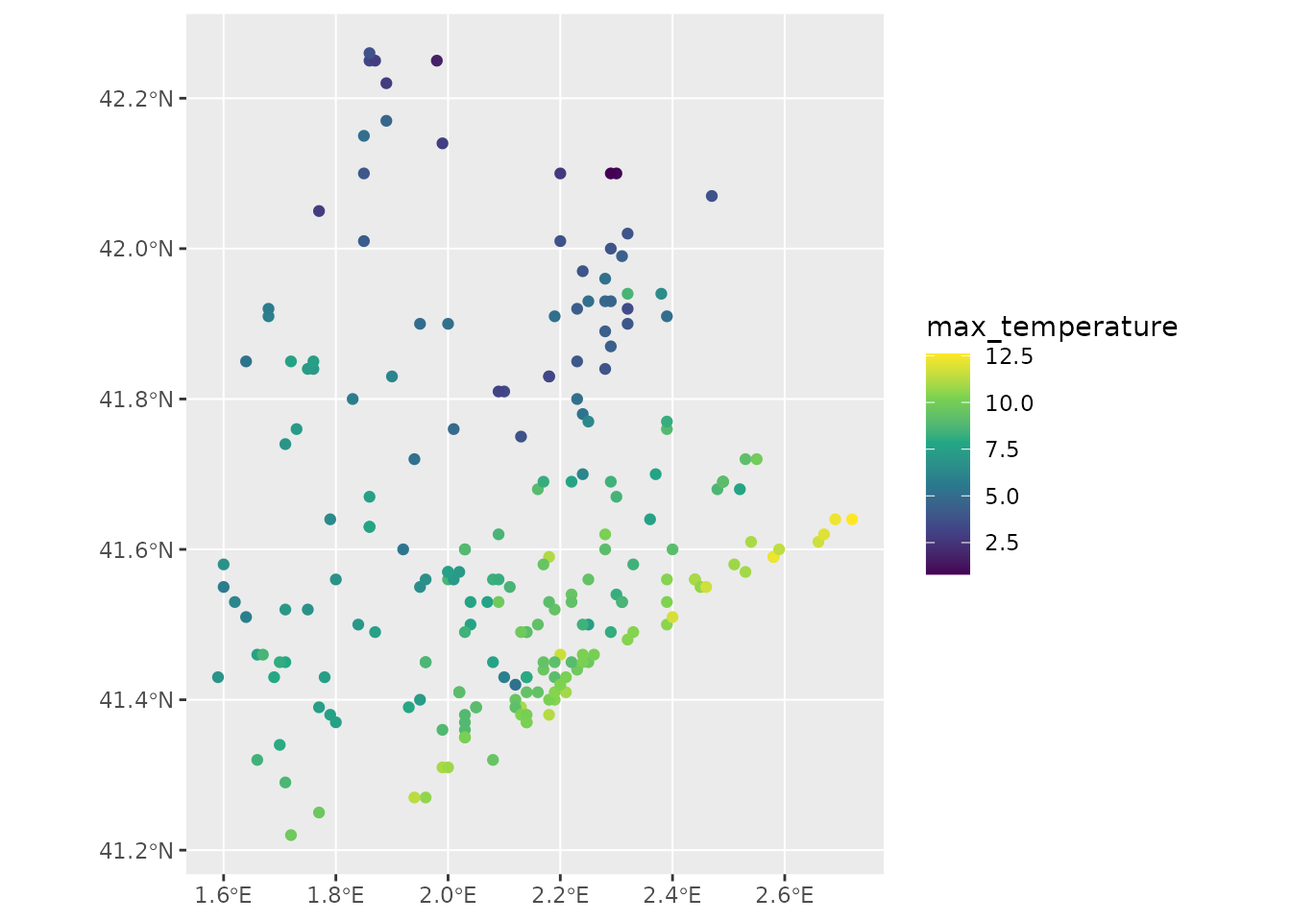
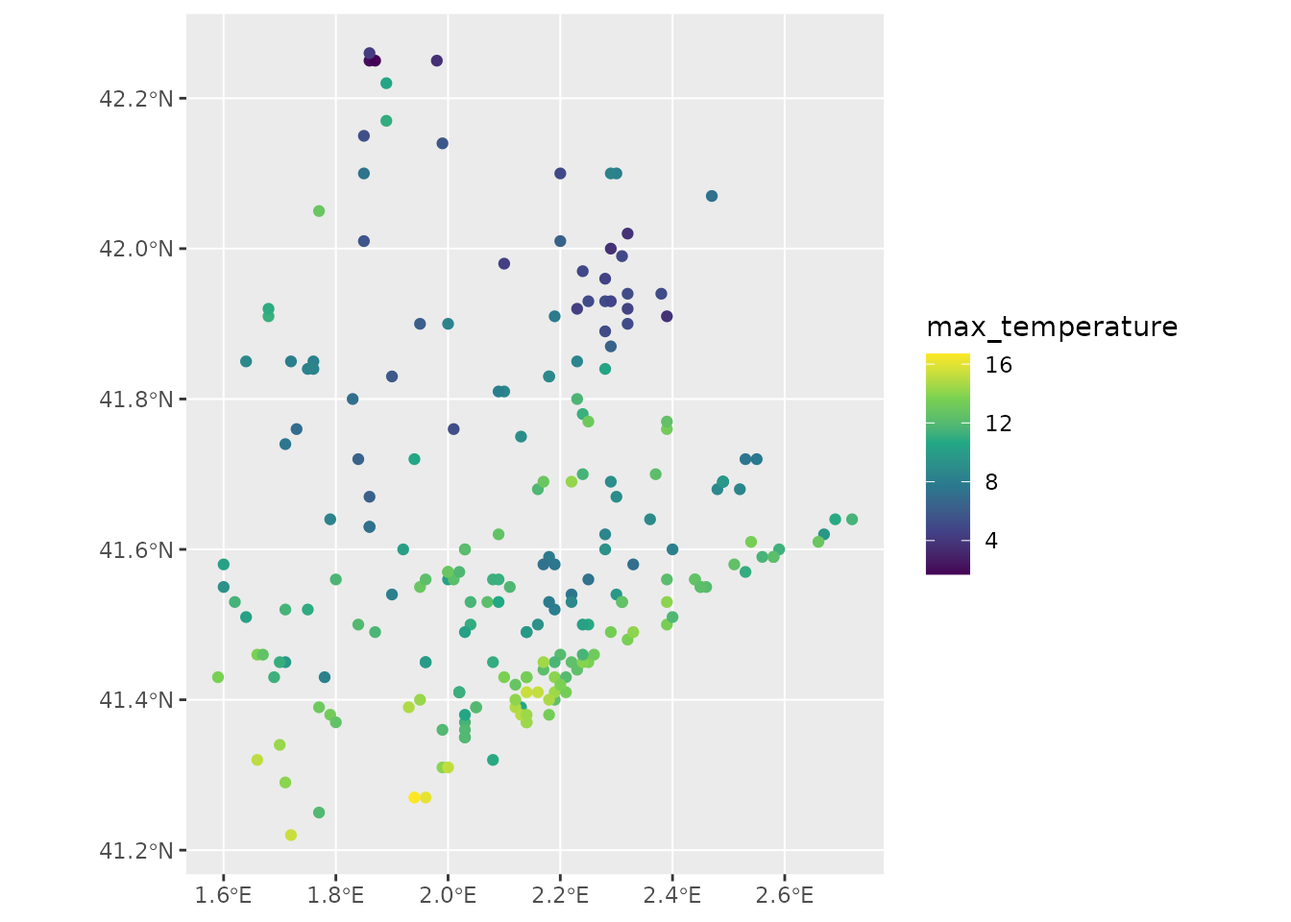
Deploying to gh-pages from @ emf-creaf/meteospain@8abbf595e693a4aecd256f32f1091f75494f7d1e 🚀

diff --git a/articles/meteoclimatic.html b/articles/meteoclimatic.html
@@ -33,7 +33,7 @@
       </button>
       <span class="navbar-brand">
         <a class="navbar-link" href="../index.html">meteospain</a>
-        <span class="version label label-default" data-toggle="tooltip" data-placement="bottom" title="">0.0.4.9000</span>
+        <span class="version label label-default" data-toggle="tooltip" data-placement="bottom" title="">0.1.0</span>
       </span>
     </div>
 
@@ -116,7 +116,7 @@
 <code class="sourceCode R"><span><span class="kw"><a href="https://rdrr.io/r/base/library.html" class="external-link">library</a></span><span class="op">(</span><span class="va"><a href="https://emf-creaf.github.io/meteospain/">meteospain</a></span><span class="op">)</span></span>
 <span><span class="kw"><a href="https://rdrr.io/r/base/library.html" class="external-link">library</a></span><span class="op">(</span><span class="va"><a href="https://ggplot2.tidyverse.org" class="external-link">ggplot2</a></span><span class="op">)</span></span>
 <span><span class="kw"><a href="https://rdrr.io/r/base/library.html" class="external-link">library</a></span><span class="op">(</span><span class="va"><a href="https://ggforce.data-imaginist.com" class="external-link">ggforce</a></span><span class="op">)</span></span>
-<span><span class="kw"><a href="https://rdrr.io/r/base/library.html" class="external-link">library</a></span><span class="op">(</span><span class="va"><a href="https://github.com/r-quantities/units/" class="external-link">units</a></span><span class="op">)</span></span>
+<span><span class="kw"><a href="https://rdrr.io/r/base/library.html" class="external-link">library</a></span><span class="op">(</span><span class="va"><a href="https://github.com/r-quantities/units" class="external-link">units</a></span><span class="op">)</span></span>
 <span><span class="co">#&gt; udunits database from /usr/share/xml/udunits/udunits2.xml</span></span>
 <span><span class="kw"><a href="https://rdrr.io/r/base/library.html" class="external-link">library</a></span><span class="op">(</span><span class="va"><a href="https://r-spatial.github.io/sf/" class="external-link">sf</a></span><span class="op">)</span></span>
 <span><span class="co">#&gt; Linking to GEOS 3.10.2, GDAL 3.4.1, PROJ 8.2.1; sf_use_s2() is TRUE</span></span></code></pre></div>
@@ -166,25 +166,25 @@ one.</p>
 <p>Accessing station metadata for Meteoclimatic is simple:</p>
 <div class="sourceCode" id="cb3"><pre class="downlit sourceCode r">
 <code class="sourceCode R"><span><span class="fu"><a href="../reference/get_stations_info_from.html">get_stations_info_from</a></span><span class="op">(</span><span class="st">'meteoclimatic'</span>, options <span class="op">=</span> <span class="va">api_options</span><span class="op">)</span></span>
-<span><span class="co">#&gt; Simple feature collection with 216 features and 3 fields</span></span>
+<span><span class="co">#&gt; Simple feature collection with 220 features and 3 fields</span></span>
 <span><span class="co">#&gt; Geometry type: POINT</span></span>
 <span><span class="co">#&gt; Dimension:     XY</span></span>
 <span><span class="co">#&gt; Bounding box:  xmin: 1.59 ymin: 41.22 xmax: 2.72 ymax: 42.26</span></span>
 <span><span class="co">#&gt; Geodetic CRS:  WGS 84</span></span>
-<span><span class="co">#&gt; <span style="color: #949494;"># A tibble: 216 × 4</span></span></span>
+<span><span class="co">#&gt; <span style="color: #949494;"># A tibble: 220 × 4</span></span></span>
 <span><span class="co">#&gt;    service       station_id          station_name          geometry</span></span>
 <span><span class="co">#&gt;  <span style="color: #BCBCBC;">*</span> <span style="color: #949494; font-style: italic;">&lt;chr&gt;</span>         <span style="color: #949494; font-style: italic;">&lt;chr&gt;</span>               <span style="color: #949494; font-style: italic;">&lt;chr&gt;</span>              <span style="color: #949494; font-style: italic;">&lt;POINT [°]&gt;</span></span></span>
 <span><span class="co">#&gt; <span style="color: #BCBCBC;"> 1</span> meteoclimatic ESCAT0800000008591A Aiguafreda (Barc… (2.25 41.77)</span></span>
 <span><span class="co">#&gt; <span style="color: #BCBCBC;"> 2</span> meteoclimatic ESCAT0800000008328F Alella-Mirador (… (2.29 41.49)</span></span>
-<span><span class="co">#&gt; <span style="color: #BCBCBC;"> 3</span> meteoclimatic ESCAT0800000008358A Arenys de Munt (… (2.54 41.61)</span></span>
-<span><span class="co">#&gt; <span style="color: #BCBCBC;"> 4</span> meteoclimatic ESCAT0800000008310B Argentona (Barce… (2.39 41.56)</span></span>
-<span><span class="co">#&gt; <span style="color: #BCBCBC;"> 5</span> meteoclimatic ESCAT0800000008915A Badalona - Bufal… (2.24 41.46)</span></span>
-<span><span class="co">#&gt; <span style="color: #BCBCBC;"> 6</span> meteoclimatic ESCAT0800000008912A Badalona - Centr… (2.25 41.45)</span></span>
-<span><span class="co">#&gt; <span style="color: #BCBCBC;"> 7</span> meteoclimatic ESCAT0800000008911C Badalona - Dalt … (2.26 41.46)</span></span>
-<span><span class="co">#&gt; <span style="color: #BCBCBC;"> 8</span> meteoclimatic ESCAT0800000008917B Badalona - La Pa… (2.22 41.45)</span></span>
-<span><span class="co">#&gt; <span style="color: #BCBCBC;"> 9</span> meteoclimatic ESCAT0800000008080A Badalona - Llefi… (2.23 41.44)</span></span>
-<span><span class="co">#&gt; <span style="color: #BCBCBC;">10</span> meteoclimatic ESCAT0800000008912B Badalona - Progr… (2.24 41.45)</span></span>
-<span><span class="co">#&gt; <span style="color: #949494;"># … with 206 more rows</span></span></span></code></pre></div>
+<span><span class="co">#&gt; <span style="color: #BCBCBC;"> 3</span> meteoclimatic ESCAT0800000008350A Arenys de Mar (B… (2.56 41.59)</span></span>
+<span><span class="co">#&gt; <span style="color: #BCBCBC;"> 4</span> meteoclimatic ESCAT0800000008358A Arenys de Munt (… (2.54 41.61)</span></span>
+<span><span class="co">#&gt; <span style="color: #BCBCBC;"> 5</span> meteoclimatic ESCAT0800000008310B Argentona (Barce… (2.39 41.56)</span></span>
+<span><span class="co">#&gt; <span style="color: #BCBCBC;"> 6</span> meteoclimatic ESCAT0800000008915A Badalona - Bufal… (2.24 41.46)</span></span>
+<span><span class="co">#&gt; <span style="color: #BCBCBC;"> 7</span> meteoclimatic ESCAT0800000008912A Badalona - Centr… (2.25 41.45)</span></span>
+<span><span class="co">#&gt; <span style="color: #BCBCBC;"> 8</span> meteoclimatic ESCAT0800000008911C Badalona - Dalt … (2.26 41.46)</span></span>
+<span><span class="co">#&gt; <span style="color: #BCBCBC;"> 9</span> meteoclimatic ESCAT0800000008917B Badalona - La Pa… (2.22 41.45)</span></span>
+<span><span class="co">#&gt; <span style="color: #BCBCBC;">10</span> meteoclimatic ESCAT0800000008080A Badalona - Llefi… (2.23 41.44)</span></span>
+<span><span class="co">#&gt; <span style="color: #949494;"># … with 210 more rows</span></span></span></code></pre></div>
 </div>
 <div class="section level3">
 <h3 id="meteoclimatic-data">Meteoclimatic data<a class="anchor" aria-label="anchor" href="#meteoclimatic-data"></a>
@@ -195,25 +195,25 @@ one.</p>
 <span><span class="co"><span style="color: #BBBB00; font-weight: bold;">#&gt; No quality check is performed in this data, and errors in measures or coordinates of stations can be present.</span></span></span>
 <span><span class="co"><span style="color: #BBBB00; font-weight: bold;">#&gt; </span><span style="color: #0000BB; font-weight: bold; text-decoration: underline;">https://www.meteoclimatic.net/index</span></span></span>
 <span><span class="va">current_day_barcelona</span></span>
-<span><span class="co">#&gt; Simple feature collection with 216 features and 9 fields</span></span>
+<span><span class="co">#&gt; Simple feature collection with 220 features and 9 fields</span></span>
 <span><span class="co">#&gt; Geometry type: POINT</span></span>
 <span><span class="co">#&gt; Dimension:     XY</span></span>
 <span><span class="co">#&gt; Bounding box:  xmin: 1.59 ymin: 41.22 xmax: 2.72 ymax: 42.26</span></span>
 <span><span class="co">#&gt; Geodetic CRS:  WGS 84</span></span>
-<span><span class="co">#&gt; <span style="color: #949494;"># A tibble: 216 × 10</span></span></span>
+<span><span class="co">#&gt; <span style="color: #949494;"># A tibble: 220 × 10</span></span></span>
 <span><span class="co">#&gt;    timestamp           service   stati…¹ stati…² min_t…³ max_t…⁴ min_r…⁵ max_r…⁶</span></span>
 <span><span class="co">#&gt;  <span style="color: #BCBCBC;">*</span> <span style="color: #949494; font-style: italic;">&lt;dttm&gt;</span>              <span style="color: #949494; font-style: italic;">&lt;chr&gt;</span>     <span style="color: #949494; font-style: italic;">&lt;chr&gt;</span>   <span style="color: #949494; font-style: italic;">&lt;chr&gt;</span>      <span style="color: #949494;">[°C]</span>    <span style="color: #949494;">[°C]</span>     <span style="color: #949494;">[%]</span>     <span style="color: #949494;">[%]</span></span></span>
-<span><span class="co">#&gt; <span style="color: #BCBCBC;"> 1</span> 2022-12-12 <span style="color: #949494;">10:45:00</span> meteocli… ESCAT0… La Pob…    -<span style="color: #BB0000;">2.7</span>     1.7      86      90</span></span>
-<span><span class="co">#&gt; <span style="color: #BCBCBC;"> 2</span> 2022-12-12 <span style="color: #949494;">10:45:00</span> meteocli… ESCAT0… Sant B…     6.1     8.9      73      83</span></span>
-<span><span class="co">#&gt; <span style="color: #BCBCBC;"> 3</span> 2022-12-12 <span style="color: #949494;">10:46:00</span> meteocli… ESCAT0… Granol…     4.6     9.1      73      86</span></span>
-<span><span class="co">#&gt; <span style="color: #BCBCBC;"> 4</span> 2022-12-12 <span style="color: #949494;">10:47:56</span> meteocli… ESCAT0… Matade…     2.9     8.1      72      88</span></span>
-<span><span class="co">#&gt; <span style="color: #BCBCBC;"> 5</span> 2022-12-12 <span style="color: #949494;">10:48:00</span> meteocli… ESCAT0… Vallro…     2.6     8.2      83      98</span></span>
-<span><span class="co">#&gt; <span style="color: #BCBCBC;"> 6</span> 2022-12-12 <span style="color: #949494;">10:50:00</span> meteocli… ESCAT0… Mataró…     5.9    12.5      62      78</span></span>
-<span><span class="co">#&gt; <span style="color: #BCBCBC;"> 7</span> 2022-12-12 <span style="color: #949494;">10:50:00</span> meteocli… ESCAT0… Bagà (…    -<span style="color: #BB0000;">2.9</span>     3.2      79      90</span></span>
-<span><span class="co">#&gt; <span style="color: #BCBCBC;"> 8</span> 2022-12-12 <span style="color: #949494;">10:50:00</span> meteocli… ESCAT0… Sant A…     5.2     8.7      77      90</span></span>
-<span><span class="co">#&gt; <span style="color: #BCBCBC;"> 9</span> 2022-12-12 <span style="color: #949494;">10:51:00</span> meteocli… ESCAT0… Barcel…     5       7.7      75      83</span></span>
-<span><span class="co">#&gt; <span style="color: #BCBCBC;">10</span> 2022-12-12 <span style="color: #949494;">10:51:00</span> meteocli… ESCAT0… Cabrer…     6.4    10.3      68      78</span></span>
-<span><span class="co">#&gt; <span style="color: #949494;"># … with 206 more rows, 2 more variables: precipitation [L/m^2],</span></span></span>
+<span><span class="co">#&gt; <span style="color: #BCBCBC;"> 1</span> 2022-12-13 <span style="color: #949494;">08:45:00</span> meteocli… ESCAT0… La Pob…     1.4     3.6      93      95</span></span>
+<span><span class="co">#&gt; <span style="color: #BCBCBC;"> 2</span> 2022-12-13 <span style="color: #949494;">08:45:00</span> meteocli… ESCAT0… Sant B…     8.3    11.5      88      93</span></span>
+<span><span class="co">#&gt; <span style="color: #BCBCBC;"> 3</span> 2022-12-13 <span style="color: #949494;">08:46:00</span> meteocli… ESCAT0… Granol…     7.1     9.3      93      97</span></span>
+<span><span class="co">#&gt; <span style="color: #BCBCBC;"> 4</span> 2022-12-13 <span style="color: #949494;">08:48:00</span> meteocli… ESCAT0… Vallro…     6.7     9.7      95      96</span></span>
+<span><span class="co">#&gt; <span style="color: #BCBCBC;"> 5</span> 2022-12-13 <span style="color: #949494;">08:50:00</span> meteocli… ESCAT0… Collsu…     6.6     8.9      89      99</span></span>
+<span><span class="co">#&gt; <span style="color: #BCBCBC;"> 6</span> 2022-12-13 <span style="color: #949494;">08:50:00</span> meteocli… ESCAT0… Mataró…     9.7    12.5      82      91</span></span>
+<span><span class="co">#&gt; <span style="color: #BCBCBC;"> 7</span> 2022-12-13 <span style="color: #949494;">08:50:00</span> meteocli… ESCAT0… Centel…     3.9    11.7      78      99</span></span>
+<span><span class="co">#&gt; <span style="color: #BCBCBC;"> 8</span> 2022-12-13 <span style="color: #949494;">08:50:00</span> meteocli… ESCAT0… Bagà (…     0.3     2.1      92      93</span></span>
+<span><span class="co">#&gt; <span style="color: #BCBCBC;"> 9</span> 2022-12-13 <span style="color: #949494;">08:50:00</span> meteocli… ESCAT0… Vilafr…     7.1    14.3      75      95</span></span>
+<span><span class="co">#&gt; <span style="color: #BCBCBC;">10</span> 2022-12-13 <span style="color: #949494;">08:50:00</span> meteocli… ESCAT0… Cervel…    10      14.3      73      88</span></span>
+<span><span class="co">#&gt; <span style="color: #949494;"># … with 210 more rows, 2 more variables: precipitation [L/m^2],</span></span></span>
 <span><span class="co">#&gt; <span style="color: #949494;">#   geometry &lt;POINT [°]&gt;, and abbreviated variable names ¹station_id,</span></span></span>
 <span><span class="co">#&gt; <span style="color: #949494;">#   ²station_name, ³min_temperature, ⁴max_temperature, ⁵min_relative_humidity,</span></span></span>
 <span><span class="co">#&gt; <span style="color: #949494;">#   ⁶max_relative_humidity</span></span></span></code></pre></div>

diff --git a/articles/meteogalicia.html b/articles/meteogalicia.html
@@ -33,7 +33,7 @@
       </button>
       <span class="navbar-brand">
         <a class="navbar-link" href="../index.html">meteospain</a>
-        <span class="version label label-default" data-toggle="tooltip" data-placement="bottom" title="">0.0.4.9000</span>
+        <span class="version label label-default" data-toggle="tooltip" data-placement="bottom" title="">0.1.0</span>
       </span>
     </div>
 
@@ -125,7 +125,7 @@
 <span><span class="co">#&gt;     intersect, setdiff, setequal, union</span></span>
 <span><span class="kw"><a href="https://rdrr.io/r/base/library.html" class="external-link">library</a></span><span class="op">(</span><span class="va"><a href="https://ggplot2.tidyverse.org" class="external-link">ggplot2</a></span><span class="op">)</span></span>
 <span><span class="kw"><a href="https://rdrr.io/r/base/library.html" class="external-link">library</a></span><span class="op">(</span><span class="va"><a href="https://ggforce.data-imaginist.com" class="external-link">ggforce</a></span><span class="op">)</span></span>
-<span><span class="kw"><a href="https://rdrr.io/r/base/library.html" class="external-link">library</a></span><span class="op">(</span><span class="va"><a href="https://github.com/r-quantities/units/" class="external-link">units</a></span><span class="op">)</span></span>
+<span><span class="kw"><a href="https://rdrr.io/r/base/library.html" class="external-link">library</a></span><span class="op">(</span><span class="va"><a href="https://github.com/r-quantities/units" class="external-link">units</a></span><span class="op">)</span></span>
 <span><span class="co">#&gt; udunits database from /usr/share/xml/udunits/udunits2.xml</span></span>
 <span><span class="kw"><a href="https://rdrr.io/r/base/library.html" class="external-link">library</a></span><span class="op">(</span><span class="va"><a href="https://r-spatial.github.io/sf/" class="external-link">sf</a></span><span class="op">)</span></span>
 <span><span class="co">#&gt; Linking to GEOS 3.10.2, GDAL 3.4.1, PROJ 8.2.1; sf_use_s2() is TRUE</span></span></code></pre></div>
@@ -175,10 +175,10 @@ the <code>stations</code> argument.</p>
 <span><span class="co">#&gt; [1] "instant"</span></span>
 <span><span class="co">#&gt; </span></span>
 <span><span class="co">#&gt; $start_date</span></span>
-<span><span class="co">#&gt; [1] "2022-12-12"</span></span>
+<span><span class="co">#&gt; [1] "2022-12-13"</span></span>
 <span><span class="co">#&gt; </span></span>
 <span><span class="co">#&gt; $end_date</span></span>
-<span><span class="co">#&gt; [1] "2022-12-12"</span></span>
+<span><span class="co">#&gt; [1] "2022-12-13"</span></span>
 <span><span class="co">#&gt; </span></span>
 <span><span class="co">#&gt; $stations</span></span>
 <span><span class="co">#&gt; NULL</span></span>
@@ -193,10 +193,10 @@ the <code>stations</code> argument.</p>
 <span><span class="co">#&gt; [1] "current_day"</span></span>
 <span><span class="co">#&gt; </span></span>
 <span><span class="co">#&gt; $start_date</span></span>
-<span><span class="co">#&gt; [1] "2022-12-12"</span></span>
+<span><span class="co">#&gt; [1] "2022-12-13"</span></span>
 <span><span class="co">#&gt; </span></span>
 <span><span class="co">#&gt; $end_date</span></span>
-<span><span class="co">#&gt; [1] "2022-12-12"</span></span>
+<span><span class="co">#&gt; [1] "2022-12-13"</span></span>
 <span><span class="co">#&gt; </span></span>
 <span><span class="co">#&gt; $stations</span></span>
 <span><span class="co">#&gt; [1] "10157" "14000" "10045"</span></span>

diff --git a/articles/ria.html b/articles/ria.html
@@ -33,7 +33,7 @@
       </button>
       <span class="navbar-brand">
         <a class="navbar-link" href="../index.html">meteospain</a>
-        <span class="version label label-default" data-toggle="tooltip" data-placement="bottom" title="">0.0.4.9000</span>
+        <span class="version label label-default" data-toggle="tooltip" data-placement="bottom" title="">0.1.0</span>
       </span>
     </div>
 
@@ -125,7 +125,7 @@
 <span><span class="co">#&gt;     intersect, setdiff, setequal, union</span></span>
 <span><span class="kw"><a href="https://rdrr.io/r/base/library.html" class="external-link">library</a></span><span class="op">(</span><span class="va"><a href="https://ggplot2.tidyverse.org" class="external-link">ggplot2</a></span><span class="op">)</span></span>
 <span><span class="kw"><a href="https://rdrr.io/r/base/library.html" class="external-link">library</a></span><span class="op">(</span><span class="va"><a href="https://ggforce.data-imaginist.com" class="external-link">ggforce</a></span><span class="op">)</span></span>
-<span><span class="kw"><a href="https://rdrr.io/r/base/library.html" class="external-link">library</a></span><span class="op">(</span><span class="va"><a href="https://github.com/r-quantities/units/" class="external-link">units</a></span><span class="op">)</span></span>
+<span><span class="kw"><a href="https://rdrr.io/r/base/library.html" class="external-link">library</a></span><span class="op">(</span><span class="va"><a href="https://github.com/r-quantities/units" class="external-link">units</a></span><span class="op">)</span></span>
 <span><span class="co">#&gt; udunits database from /usr/share/xml/udunits/udunits2.xml</span></span>
 <span><span class="kw"><a href="https://rdrr.io/r/base/library.html" class="external-link">library</a></span><span class="op">(</span><span class="va"><a href="https://r-spatial.github.io/sf/" class="external-link">sf</a></span><span class="op">)</span></span>
 <span><span class="co">#&gt; Linking to GEOS 3.10.2, GDAL 3.4.1, PROJ 8.2.1; sf_use_s2() is TRUE</span></span></code></pre></div>
@@ -177,10 +177,10 @@ reference.</p>
 <span><span class="co">#&gt; [1] "daily"</span></span>
 <span><span class="co">#&gt; </span></span>
 <span><span class="co">#&gt; $start_date</span></span>
-<span><span class="co">#&gt; [1] "2022-12-11"</span></span>
+<span><span class="co">#&gt; [1] "2022-12-12"</span></span>
 <span><span class="co">#&gt; </span></span>
 <span><span class="co">#&gt; $end_date</span></span>
-<span><span class="co">#&gt; [1] "2022-12-11"</span></span>
+<span><span class="co">#&gt; [1] "2022-12-12"</span></span>
 <span><span class="co">#&gt; </span></span>
 <span><span class="co">#&gt; $stations</span></span>
 <span><span class="co">#&gt; NULL</span></span>
@@ -195,10 +195,10 @@ reference.</p>
 <span><span class="co">#&gt; [1] "daily"</span></span>
 <span><span class="co">#&gt; </span></span>
 <span><span class="co">#&gt; $start_date</span></span>
-<span><span class="co">#&gt; [1] "2022-12-11"</span></span>
+<span><span class="co">#&gt; [1] "2022-12-12"</span></span>
 <span><span class="co">#&gt; </span></span>
 <span><span class="co">#&gt; $end_date</span></span>
-<span><span class="co">#&gt; [1] "2022-12-11"</span></span>
+<span><span class="co">#&gt; [1] "2022-12-12"</span></span>
 <span><span class="co">#&gt; </span></span>
 <span><span class="co">#&gt; $stations</span></span>
 <span><span class="co">#&gt; [1] "14-2" "4-2"</span></span>

diff --git a/articles/aemet.html b/articles/aemet.html
@@ -33,7 +33,7 @@
       </button>
       <span class="navbar-brand">
         <a class="navbar-link" href="../index.html">meteospain</a>
-        <span class="version label label-default" data-toggle="tooltip" data-placement="bottom" title="">0.0.4.9000</span>
+        <span class="version label label-default" data-toggle="tooltip" data-placement="bottom" title="">0.1.0</span>
       </span>
     </div>
 
@@ -116,7 +116,7 @@
 <code class="sourceCode R"><span><span class="kw"><a href="https://rdrr.io/r/base/library.html" class="external-link">library</a></span><span class="op">(</span><span class="va"><a href="https://emf-creaf.github.io/meteospain/">meteospain</a></span><span class="op">)</span></span>
 <span><span class="kw"><a href="https://rdrr.io/r/base/library.html" class="external-link">library</a></span><span class="op">(</span><span class="va"><a href="https://ggplot2.tidyverse.org" class="external-link">ggplot2</a></span><span class="op">)</span></span>
 <span><span class="kw"><a href="https://rdrr.io/r/base/library.html" class="external-link">library</a></span><span class="op">(</span><span class="va"><a href="https://ggforce.data-imaginist.com" class="external-link">ggforce</a></span><span class="op">)</span></span>
-<span><span class="kw"><a href="https://rdrr.io/r/base/library.html" class="external-link">library</a></span><span class="op">(</span><span class="va"><a href="https://github.com/r-quantities/units/" class="external-link">units</a></span><span class="op">)</span></span>
+<span><span class="kw"><a href="https://rdrr.io/r/base/library.html" class="external-link">library</a></span><span class="op">(</span><span class="va"><a href="https://github.com/r-quantities/units" class="external-link">units</a></span><span class="op">)</span></span>
 <span><span class="co">#&gt; udunits database from /usr/share/xml/udunits/udunits2.xml</span></span>
 <span><span class="kw"><a href="https://rdrr.io/r/base/library.html" class="external-link">library</a></span><span class="op">(</span><span class="va"><a href="https://r-spatial.github.io/sf/" class="external-link">sf</a></span><span class="op">)</span></span>
 <span><span class="co">#&gt; Linking to GEOS 3.10.2, GDAL 3.4.1, PROJ 8.2.1; sf_use_s2() is TRUE</span></span>
@@ -188,10 +188,10 @@ and accessing keys:</p>
 <span><span class="co">#&gt; [1] "current_day"</span></span>
 <span><span class="co">#&gt; </span></span>
 <span><span class="co">#&gt; $start_date</span></span>
-<span><span class="co">#&gt; [1] "2022-12-12"</span></span>
+<span><span class="co">#&gt; [1] "2022-12-13"</span></span>
 <span><span class="co">#&gt; </span></span>
 <span><span class="co">#&gt; $end_date</span></span>
-<span><span class="co">#&gt; [1] "2022-12-12"</span></span>
+<span><span class="co">#&gt; [1] "2022-12-13"</span></span>
 <span><span class="co">#&gt; </span></span>
 <span><span class="co">#&gt; $stations</span></span>
 <span><span class="co">#&gt; NULL</span></span>

diff --git a/articles/meteocat.html b/articles/meteocat.html
@@ -33,7 +33,7 @@
       </button>
       <span class="navbar-brand">
         <a class="navbar-link" href="../index.html">meteospain</a>
-        <span class="version label label-default" data-toggle="tooltip" data-placement="bottom" title="">0.0.4.9000</span>
+        <span class="version label label-default" data-toggle="tooltip" data-placement="bottom" title="">0.1.0</span>
       </span>
     </div>
 
@@ -125,7 +125,7 @@
 <span><span class="co">#&gt;     intersect, setdiff, setequal, union</span></span>
 <span><span class="kw"><a href="https://rdrr.io/r/base/library.html" class="external-link">library</a></span><span class="op">(</span><span class="va"><a href="https://ggplot2.tidyverse.org" class="external-link">ggplot2</a></span><span class="op">)</span></span>
 <span><span class="kw"><a href="https://rdrr.io/r/base/library.html" class="external-link">library</a></span><span class="op">(</span><span class="va"><a href="https://ggforce.data-imaginist.com" class="external-link">ggforce</a></span><span class="op">)</span></span>
-<span><span class="kw"><a href="https://rdrr.io/r/base/library.html" class="external-link">library</a></span><span class="op">(</span><span class="va"><a href="https://github.com/r-quantities/units/" class="external-link">units</a></span><span class="op">)</span></span>
+<span><span class="kw"><a href="https://rdrr.io/r/base/library.html" class="external-link">library</a></span><span class="op">(</span><span class="va"><a href="https://github.com/r-quantities/units" class="external-link">units</a></span><span class="op">)</span></span>
 <span><span class="co">#&gt; udunits database from /usr/share/xml/udunits/udunits2.xml</span></span>
 <span><span class="kw"><a href="https://rdrr.io/r/base/library.html" class="external-link">library</a></span><span class="op">(</span><span class="va"><a href="https://r-spatial.github.io/sf/" class="external-link">sf</a></span><span class="op">)</span></span>
 <span><span class="co">#&gt; Linking to GEOS 3.10.2, GDAL 3.4.1, PROJ 8.2.1; sf_use_s2() is TRUE</span></span>
@@ -206,7 +206,7 @@ and accessing keys:</p>
 <span><span class="co">#&gt; [1] "instant"</span></span>
 <span><span class="co">#&gt; </span></span>
 <span><span class="co">#&gt; $start_date</span></span>
-<span><span class="co">#&gt; [1] "2022-12-12"</span></span>
+<span><span class="co">#&gt; [1] "2022-12-13"</span></span>
 <span><span class="co">#&gt; </span></span>
 <span><span class="co">#&gt; $stations</span></span>
 <span><span class="co">#&gt; NULL</span></span>

diff --git a/reference/get_quota_from.html b/reference/get_quota_from.html
@@ -17,7 +17,7 @@
       </button>
       <span class="navbar-brand">
         <a class="navbar-link" href="../index.html">meteospain</a>
-        <span class="version label label-default" data-toggle="tooltip" data-placement="bottom" title="">0.0.4.9000</span>
+        <span class="version label label-default" data-toggle="tooltip" data-placement="bottom" title="">0.1.0</span>
       </span>
     </div>
 
@@ -127,8 +127,8 @@ quota numbers in the services that allow for this, <strong>(currently only Meteo
 <span class="r-out co"><span class="r-pr">#&gt;</span> <span style="color: #BCBCBC;">1</span> Prediccio_8000   Mensual         <span style="text-decoration: underline;">8</span>000              <span style="text-decoration: underline;">8</span>000                    0</span>
 <span class="r-out co"><span class="r-pr">#&gt;</span> <span style="color: #BCBCBC;">2</span> Referència Bàsic Mensual         <span style="text-decoration: underline;">2</span>000              <span style="text-decoration: underline;">2</span>000                    0</span>
 <span class="r-out co"><span class="r-pr">#&gt;</span> <span style="color: #BCBCBC;">3</span> XDDE_1500        Mensual         <span style="text-decoration: underline;">1</span>500              <span style="text-decoration: underline;">1</span>500                    0</span>
-<span class="r-out co"><span class="r-pr">#&gt;</span> <span style="color: #BCBCBC;">4</span> XEMA_20000       Mensual        <span style="text-decoration: underline;">20</span>000              <span style="text-decoration: underline;">9</span>370                <span style="text-decoration: underline;">10</span>630</span>
-<span class="r-out co"><span class="r-pr">#&gt;</span> <span style="color: #BCBCBC;">5</span> Quota            Mensual          300               249                   51</span>
+<span class="r-out co"><span class="r-pr">#&gt;</span> <span style="color: #BCBCBC;">4</span> XEMA_20000       Mensual        <span style="text-decoration: underline;">20</span>000              <span style="text-decoration: underline;">6</span>997                <span style="text-decoration: underline;">13</span>003</span>
+<span class="r-out co"><span class="r-pr">#&gt;</span> <span style="color: #BCBCBC;">5</span> Quota            Mensual          300               238                   62</span>
 <span class="r-in"><span><span class="co"># }</span></span></span>
 <span class="r-in"><span></span></span>
 </code></pre></div>

diff --git a/articles/api_limits.html b/articles/api_limits.html
@@ -33,7 +33,7 @@
       </button>
       <span class="navbar-brand">
         <a class="navbar-link" href="../index.html">meteospain</a>
-        <span class="version label label-default" data-toggle="tooltip" data-placement="bottom" title="">0.0.4.9000</span>
+        <span class="version label label-default" data-toggle="tooltip" data-placement="bottom" title="">0.1.0</span>
       </span>
     </div>
 
@@ -598,10 +598,10 @@ independently of the date supplied:</p>
 <span><span class="co">#&gt; <span style="color: #BBBB00; font-weight: bold;">Data provided by meteo.cat © Servei Meteorològic de Catalunya</span></span></span>
 <span><span class="co">#&gt; <span style="color: #0000BB; font-weight: bold; text-decoration: underline;">https://www.meteo.cat/wpweb/avis-legal/#info</span></span></span>
 <span><span class="fu"><a href="https://rdrr.io/r/base/unique.html" class="external-link">unique</a></span><span class="op">(</span><span class="va">all_years</span><span class="op">$</span><span class="va">timestamp</span><span class="op">)</span></span>
-<span><span class="co">#&gt;  [1] "2008-12-12 UTC" "2009-12-12 UTC" "2010-12-12 UTC" "2011-12-12 UTC"</span></span>
-<span><span class="co">#&gt;  [5] "2012-12-12 UTC" "2013-12-12 UTC" "2014-12-12 UTC" "2015-12-12 UTC"</span></span>
-<span><span class="co">#&gt;  [9] "2016-12-12 UTC" "2017-12-12 UTC" "2018-12-12 UTC" "2019-12-12 UTC"</span></span>
-<span><span class="co">#&gt; [13] "2020-12-12 UTC" "2021-12-12 UTC"</span></span></code></pre></div>
+<span><span class="co">#&gt;  [1] "2008-12-13 UTC" "2009-12-13 UTC" "2010-12-13 UTC" "2011-12-13 UTC"</span></span>
+<span><span class="co">#&gt;  [5] "2012-12-13 UTC" "2013-12-13 UTC" "2014-12-13 UTC" "2015-12-13 UTC"</span></span>
+<span><span class="co">#&gt;  [9] "2016-12-13 UTC" "2017-12-13 UTC" "2018-12-13 UTC" "2019-12-13 UTC"</span></span>
+<span><span class="co">#&gt; [13] "2020-12-13 UTC" "2021-12-13 UTC"</span></span></code></pre></div>
 <p>This means that with yearly we always get all the data available, so
 there is no need of loops.</p>
 </div>

diff --git a/news/index.html b/news/index.html
@@ -17,7 +17,7 @@
       </button>
       <span class="navbar-brand">
         <a class="navbar-link" href="../index.html">meteospain</a>
-        <span class="version label label-default" data-toggle="tooltip" data-placement="bottom" title="">0.0.4.9000</span>
+        <span class="version label label-default" data-toggle="tooltip" data-placement="bottom" title="">0.1.0</span>
       </span>
     </div>
 
@@ -80,8 +80,10 @@
     </div>
 
     <div class="section level2">
-<h2 class="page-header" data-toc-text="development version" id="meteospain-development-version">meteospain (development version)<a class="anchor" aria-label="anchor" href="#meteospain-development-version"></a></h2>
-<ul><li>Fixed new meteogalicia API by <a href="https://github.com/dataleteo" class="external-link">@dataleteo</a> (<a href="https://github.com/emf-creaf/meteospain/issues/13" class="external-link">#13</a>)</li>
+<h2 class="page-header" data-toc-text="0.1.0" id="meteospain-010">meteospain 0.1.0<a class="anchor" aria-label="anchor" href="#meteospain-010"></a></h2>
+<ul><li>Substitute <code>.data</code> calls by <code>"variable_name"</code> as recommended by tidyselect after deprecation of <code>.data</code>
+</li>
+<li>Fixed new meteogalicia API by <a href="https://github.com/dataleteo" class="external-link">@dataleteo</a> (<a href="https://github.com/emf-creaf/meteospain/issues/13" class="external-link">#13</a>)</li>
 </ul></div>
     <div class="section level2">
 <h2 class="page-header" data-toc-text="0.0.4" id="meteospain-004">meteospain 0.0.4<small>2022-05-25</small><a class="anchor" aria-label="anchor" href="#meteospain-004"></a></h2>

diff --git a/articles/compatibility.html b/articles/compatibility.html
@@ -33,7 +33,7 @@
       </button>
       <span class="navbar-brand">
         <a class="navbar-link" href="../index.html">meteospain</a>
-        <span class="version label label-default" data-toggle="tooltip" data-placement="bottom" title="">0.0.4.9000</span>
+        <span class="version label label-default" data-toggle="tooltip" data-placement="bottom" title="">0.1.0</span>
       </span>
     </div>
 
@@ -127,7 +127,7 @@
 <span><span class="co">#&gt; </span></span>
 <span><span class="co">#&gt;     intersect, setdiff, setequal, union</span></span>
 <span><span class="kw"><a href="https://rdrr.io/r/base/library.html" class="external-link">library</a></span><span class="op">(</span><span class="va"><a href="https://ggplot2.tidyverse.org" class="external-link">ggplot2</a></span><span class="op">)</span></span>
-<span><span class="kw"><a href="https://rdrr.io/r/base/library.html" class="external-link">library</a></span><span class="op">(</span><span class="va"><a href="https://github.com/r-quantities/units/" class="external-link">units</a></span><span class="op">)</span></span>
+<span><span class="kw"><a href="https://rdrr.io/r/base/library.html" class="external-link">library</a></span><span class="op">(</span><span class="va"><a href="https://github.com/r-quantities/units" class="external-link">units</a></span><span class="op">)</span></span>
 <span><span class="co">#&gt; udunits database from /usr/share/xml/udunits/udunits2.xml</span></span>
 <span></span>
 <span><span class="co"># provide keys for aemet and meteocat if not done already</span></span>

diff --git a/404.html b/404.html
@@ -32,7 +32,7 @@
       </button>
       <span class="navbar-brand">
         <a class="navbar-link" href="https://emf-creaf.github.io/meteospain/index.html">meteospain</a>
-        <span class="version label label-default" data-toggle="tooltip" data-placement="bottom" title="">0.0.4.9000</span>
+        <span class="version label label-default" data-toggle="tooltip" data-placement="bottom" title="">0.1.0</span>
       </span>
     </div>
 

diff --git a/reference/reexports.html b/reference/reexports.html
@@ -24,7 +24,7 @@ below to see their documentation.
       </button>
       <span class="navbar-brand">
         <a class="navbar-link" href="../index.html">meteospain</a>
-        <span class="version label label-default" data-toggle="tooltip" data-placement="bottom" title="">0.0.4.9000</span>
+        <span class="version label label-default" data-toggle="tooltip" data-placement="bottom" title="">0.1.0</span>
       </span>
     </div>
 

diff --git a/articles/index.html b/articles/index.html
@@ -17,7 +17,7 @@
       </button>
       <span class="navbar-brand">
         <a class="navbar-link" href="../index.html">meteospain</a>
-        <span class="version label label-default" data-toggle="tooltip" data-placement="bottom" title="">0.0.4.9000</span>
+        <span class="version label label-default" data-toggle="tooltip" data-placement="bottom" title="">0.1.0</span>
       </span>
     </div>
 
